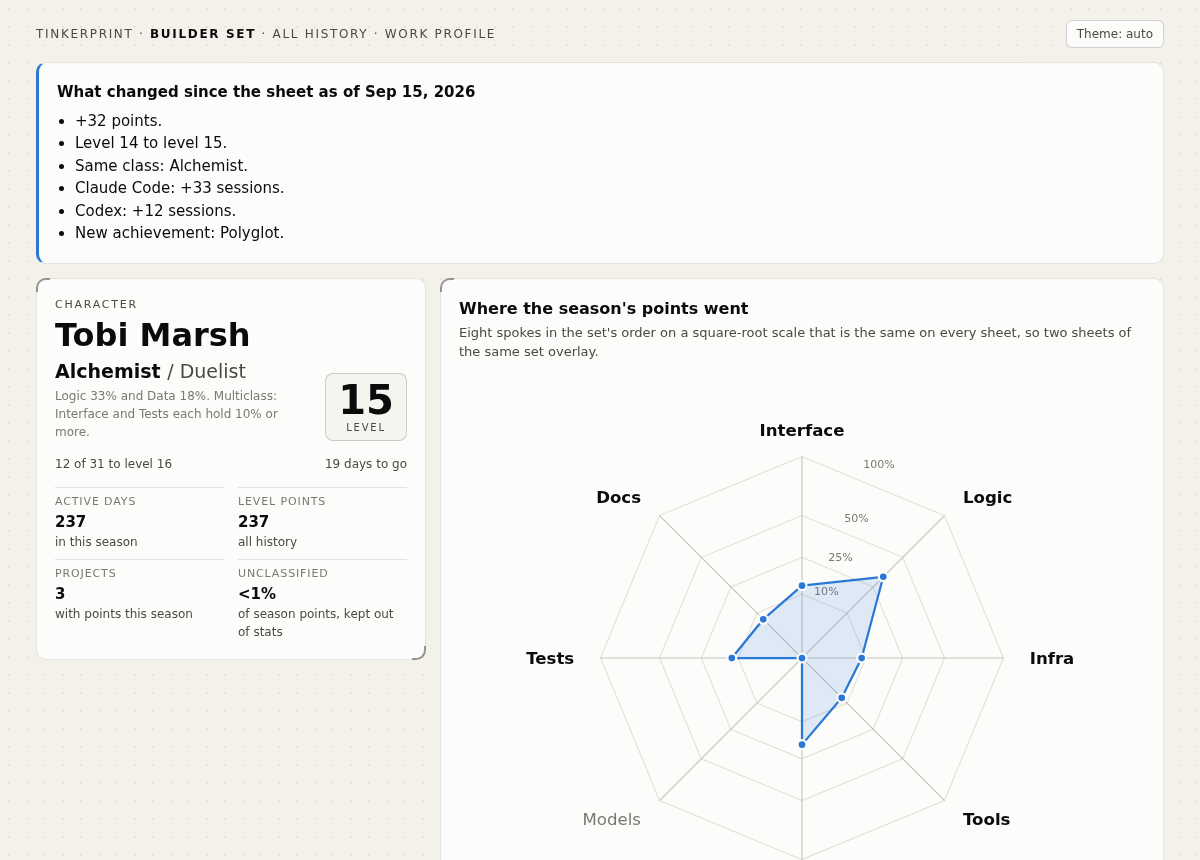
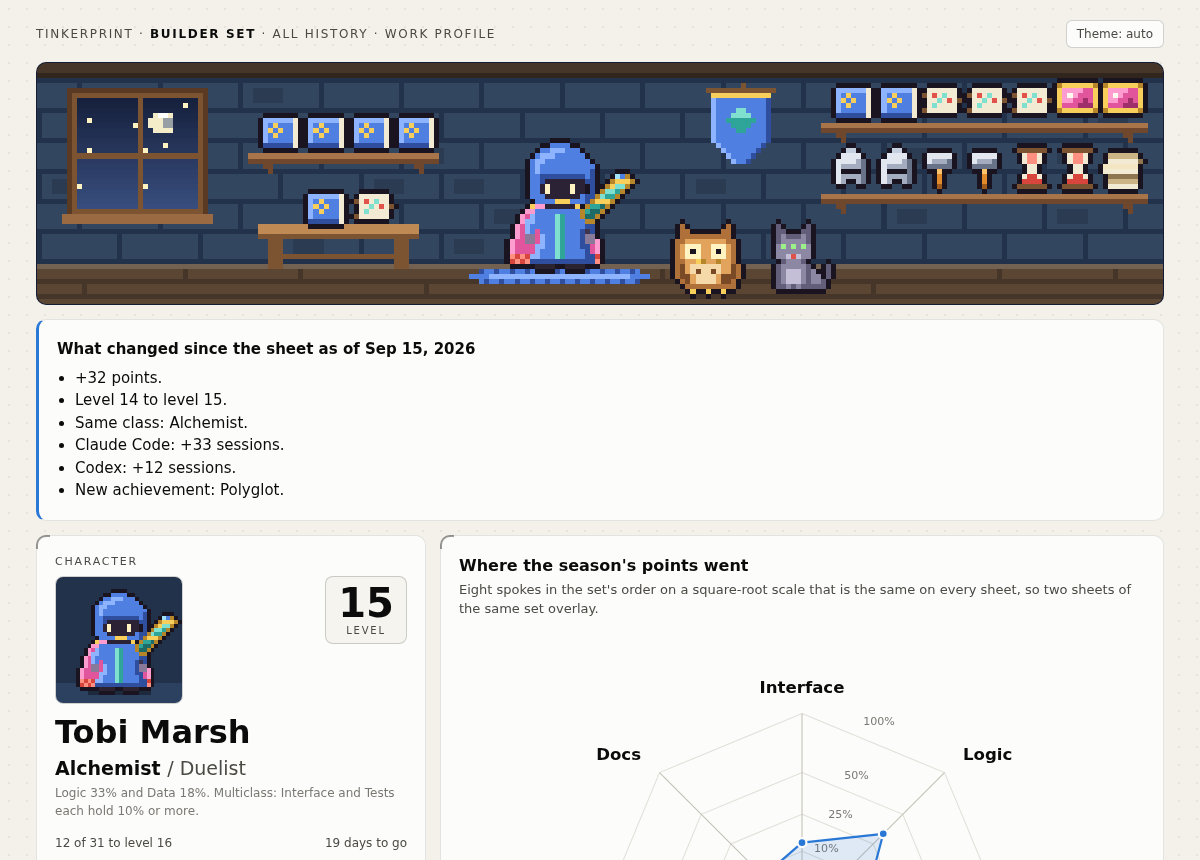
Document the art: docs/ART.md, chronicle in METHOD, gallery in README, changelog
README images now show the banner, portrait and card art.

Claude-Session: https://claude.ai/code/session_01VEmKQtCYERGHMJsPNdzkYW

diff --git a/docs/ART.md b/docs/ART.md
@@ -1,0 +1,125 @@
+# Art
+
+Every picture tinkerprint draws is pixel art made in code from a pack of parts. The same sheet always gives the same pixels. Nothing is fetched, and nothing is random except a stream seeded from sheet fields.
+
+Run `tinkerprint gallery --out art` to see every part at once.
+
+## What it draws
+
+| Picture | Where | Made from |
+|---|---|---|
+| Portrait | sheet hero, card, `portrait.png` | the class |
+| Close-call costume | sheet hero | the class within 2 points |
+| Banner | top of the sheet | the stat mix, the class, the party |
+| Familiar | party cards, banner | the harness |
+| Icon | achievements, milestones | the achievement rule |
+| Trinket | stat cards, banner shelves | the stat |
+| Chronicle | sheet | one portrait per quarter, a campfire for a quiet stretch |
+
+## How a portrait composes
+
+A portrait is a 32 by 32 grid. Layers go down in this order, then every clear pixel next to a drawn one becomes outline:
+
+1. **Cape**, only for a multiclass: the cloth takes the multiclass's first stat, the hem its second.
+2. **Pack**, only for a generalist: a bedroll in the top stat's colors.
+3. **Base**: the shadowed face, eyes, body, legs and boots.
+4. **Body**: robe, armor, apron, smock, coat or tunic, by the top stat.
+5. **Hat**, by the top stat.
+6. **Held item**, by the runner-up. A specialist holds the next stat down, or its own stat's item when it has nothing else.
+7. **Hand** over the grip, unless the item covers it (shield, tome).
+
+A pair wears its top stat and holds its runner-up, so a Spellblade heavy on Logic looks different from one heavy on Interface. The generalist wears a traveler's hat and tunic and carries a walking staff.
+
+Looks follow class shape only. Level, points, streaks and days never change a picture, so a portrait is never a status marker.
+
+The sheet and the card rank stats the same way: by share rounded to 5%, ties in the set's order. So the card's portrait always matches the sheet's.
+
+### Grid keys
+
+`.` is clear. Upper-case keys are ramps filled in per drawing:
+
+| Keys | Ramp |
+|---|---|
+| `A B C` | outfit: the top stat, light to dark |
+| `X Y Z` | item: the runner-up |
+| `T U` | cape: the multiclass's first stat |
+| `V W` | hem: the multiclass's second stat |
+
+Every other key is a fixed color from the pack's `ink`. A part may add its own `palette` for keys only it uses, like a familiar's fur.
+
+## How many
+
+Per set, a portrait varies by kind, top stat, item stat and cape:
+
+| Kind | Looks |
+|---|---|
+| Specialist | 8 outfits, 8 items, 31 capes (none, or 30 ordered pairs of the other stats) |
+| Pair | 28 pairs, 2 orders, 31 capes |
+| Generalist | 8 pack colors |
+| Unclassed | 1 |
+
+That is about 3,500 portraits per set and 7,000 across both, from 14 hats, 6 bodies, 14 held items and one cape. Add 4 familiars, 11 icons, 13 trinkets and a campfire. The banner arranges trinkets by share and seed, so banners rarely repeat.
+
+## Size budget
+
+Pictures are inline SVG: one `<path>` per color, built from runs merged into rectangles, with `shape-rendering: crispEdges`.
+
+| Output | Before art | With art | Budget (tested) |
+|---|---|---|---|
+| `sheet.html`, demo | 23 to 24 KB | 84 to 93 KB | under 160 KB |
+| `card.svg` | 6 KB | 9 to 10 KB | under 24 KB |
+| `portrait.png`, 256 px | none | under 2 KB | under 4 KB |
+| `gallery.html` | none | about 400 KB | under 640 KB |
+
+The banner is the largest piece, about 25 KB. A portrait is 3 to 4 KB. Chronicle chapters that share a look draw it once and reuse it.
+
+PNGs come from a small writer on `zlib` and `struct`: RGBA, filter 0, fixed compression. `build` writes `portrait.png` only when the card is on, from the card's fields alone. `gallery --png` writes every picture.
+
+## The card stays allowlisted
+
+The card's portrait reads only `set`, `class`, `multiclass` and the rounded `stats`. It draws `<path>` elements with `fill` and `d` and nothing else, so `audit` lists no new strings. The test suite checks that the card's portrait matches the sheet's and ignores every other field.
+
+## Replace the art
+
+A pack is one JSON file. Start from the built-in one:
+
+```
+tinkerprint gallery --export-pack mypack.json
+```
+
+Edit grids and colors, then look at the result and build with it:
+
+```
+tinkerprint gallery --art-pack mypack.json --out preview
+tinkerprint build --profile me.toml --art-pack mypack.json
+```
+
+What a pack holds:
+
+- `ink`: fixed colors, one character each.
+- `stat_colors`: light, mid and dark for each of the 13 stats.
+- `sets`: plate, floor, wall and board colors for each set.
+- `looks`: the hat, body, item and trinket each stat uses.
+- `generalist`, `familiars`, `icons`: which part draws each.
+- `parts`: grids. Each has `at` (its corner on the canvas), `rows`, and optional `palette` and `cover`.
+
+The loader refuses a pack with a color that is not `#rrggbb`, a key no palette defines, rows of uneven width, or a missing part. A pack can change pixels and nothing else. It never adds text to a sheet or card.
+
+## The alternative: a pre-made art pack
+
+A hand-drawn or AI-made set of images could ship in place of the generator.
+
+What it would improve:
+
+- Faces, hands and fabric at a detail 32 pixels cannot hold.
+- A distinct silhouette per class, where today pairs share an outfit and differ by item and accent.
+- Poses, a banner with depth and lighting, familiars with personality.
+
+What it would cost:
+
+- **Combinations.** 7,000 portraits cannot each be drawn. A pack would cover 37 classes per set and drop the item and cape variation, or ship layered parts that still need composing.
+- **Size.** Even small PNGs add up to megabytes in the package, against kilobytes of grids today. A sheet that embeds them grows too.
+- **License and provenance.** Every image needs a clear license for an MIT repo. AI output needs a model whose terms allow it, and a record of how it was made.
+- **Consistency.** Hand art for 74 classes drifts in style unless one person draws all of it.
+
+The middle path fits the pack format as it is: draw or generate the parts at 32 pixels, quantize them to a palette, and write them as grids. The composer, the tests and the allowlist stay the same.

diff --git a/METHOD.md b/METHOD.md
@@ -133,12 +133,21 @@ Generic rules over events and git, the same for everyone. Each states its rule a
 
 A profile may add a milestones file (one dated line per milestone) for releases, launches or anything else the person keeps. Milestones show as the person wrote them and need no rule.
 
+## Chronicle
+
+One chapter per calendar quarter, from the first active day to the last, over all history up to the as-of date. A chapter shows its active days and the class its own points would give under the rules above, with a close runner-up named the same way. A chapter with only unclassified points has no class. Runs of quarters with no active day collapse into one rest. The chronicle reads the per-day points that scoring already made and adds no rule about points.
+
+## Art
+
+Pictures follow class shape only: the class, its stats ranked by share rounded to 5%, the multiclass and the party's harnesses. Level, points and streaks never change a picture. The rules for composing them are in [docs/ART.md](docs/ART.md).
+
 ## Outputs
 
 - `sheet.json`: versioned, everything the pages draw. It depends on the events and the profile alone.
 - `changes.json`: what changed since an earlier sheet (see below). Kept apart so `sheet.json` never depends on history.
 - `sheet.html`: the private sheet. One file, no network: fonts inlined, a content policy that blocks every request.
-- `card.svg`: the share card, built from an allowlist only: name, set, class, level, stat shares rounded to 5%, achievement titles with month dates, and the party's harness names. Hours, weekdays, exact dates, streak ranges, project names and token totals stay off unless the profile turns them on. A profile marked `work = true` never goes on a card unless it says so. The card's chart follows its rounded shares: fewer than three nonzero rounded shares draw ranked bars, so no stat under 5% shows through.
+- `card.svg`: the share card, built from an allowlist only: name, set, class, level, stat shares rounded to 5%, achievement titles with month dates, and the party's harness names. Its portrait comes from the set, class, multiclass and rounded shares, and draws no text. Hours, weekdays, exact dates, streak ranges, project names and token totals stay off unless the profile turns them on. A profile marked `work = true` never goes on a card unless it says so. The card's chart follows its rounded shares: fewer than three nonzero rounded shares draw ranked bars, so no stat under 5% shows through.
+- `portrait.png`: the card's portrait as a PNG, written only when the card is on, from the card's fields alone.
 - `audit`: prints every text string in the `card.svg` on disk, in document order. It reads nothing else.
 - **What changed**: each successful build saves its sheet to a history kept per profile file and season, named by its as-of date (the `--as-of` date, or the build day). A build compares against the newest saved sheet with an earlier as-of date and names that date. The comparison covers points since then, level-ups, a new class, share drift, party changes and new achievements. A build with an earlier as-of date never compares against a later sheet.
 

diff --git a/README.md b/README.md
@@ -2,19 +2,19 @@
 
 Turn your git history and your coding-agent logs into an RPG stat sheet.
 
-Stats on a radar, a class from your two strongest stats, a level, a few dated achievements, and a party: the agents that worked beside you. It runs on your machine and reads only what is already there. Nothing is uploaded.
+Stats on a radar, a class from your two strongest stats with a pixel portrait to match, a level, a few dated achievements, a chronicle of your classes by quarter, and a party: the agents that worked beside you. It runs on your machine and reads only what is already there. Nothing is uploaded.
 
 ## What it makes
 
 A private sheet, one HTML file per profile. Here are the demo's two invented people, a developer on the builder set and a tinkerer on the tinkerer set:
 
-![Sheet for Tobi Marsh, an invented developer: class, level and a radar of the builder set](docs/tobi.png)
+![Sheet for Tobi Marsh, an invented developer: workshop banner, pixel portrait, class, level and a radar of the builder set](docs/tobi.png)
 
 ![Sheet for Wren Aldous, an invented tinkerer, in the dark theme](docs/wren.png)
 
 And a share card that carries only what you allow:
 
-![Share card for Tobi Marsh: class, level, rounded shares, achievements and party](docs/card.png)
+![Share card for Tobi Marsh: pixel portrait, class, level, rounded shares, achievements and party](docs/card.png)
 
 ## Try it
 
@@ -35,7 +35,9 @@ tinkerprint build --profile me.toml   # sheet.html, card.svg, sheet.json
 tinkerprint audit --profile me.toml   # every text string in the built card.svg
 ```
 
-`build` takes `--season FROM:TO` to set the season and `--as-of DATE` to ignore anything later. Without `--out`, sheets go to a folder under `~/.local/share/tinkerprint/sheets/` named for the profile file. Each build writes `sheet.json`, `changes.json`, `sheet.html` and `card.svg`. `python -m tinkerprint` works too. See `examples/profile.example.toml` for every profile option.
+`tinkerprint gallery --out art` writes one page with every class portrait of both sets, every familiar, icon and a few banners. The art is pixel art made in code from a pack of parts, and `--art-pack` swaps the pack. See [docs/ART.md](docs/ART.md).
+
+`build` takes `--season FROM:TO` to set the season and `--as-of DATE` to ignore anything later. Without `--out`, sheets go to a folder under `~/.local/share/tinkerprint/sheets/` named for the profile file. Each build writes `sheet.json`, `changes.json`, `sheet.html` and `card.svg`, plus `portrait.png` when the card is on. `python -m tinkerprint` works too. See `examples/profile.example.toml` for every profile option.
 
 ## What it reads
 

diff --git a/CHANGELOG.md b/CHANGELOG.md
@@ -2,6 +2,15 @@
 
 Newest first. Every release gets a version, an entry here and a GitHub release.
 
+## Unreleased
+
+- Pixel art, made in code from a pack of parts. A portrait beside your class wears your top stat and holds your runner-up, with a cape for a multiclass. On a close call it changes into the other costume.
+- A workshop banner on top of the sheet. Its shelves hold trinkets for your strongest stats and your party's familiars stand beside you.
+- Familiars for each harness, icons for each achievement, trinkets on the stat cards.
+- A chronicle on the sheet: one chapter per quarter with that quarter's class. Quiet stretches rest at camp. `sheet.json` gains a `chronicle` list.
+- The share card shows the portrait, drawn from its allowlisted fields only. `build` writes `portrait.png` when the card is on.
+- `tinkerprint gallery` writes one page with every portrait, familiar and icon. `--art-pack` on `build` and `gallery` draws with your own pack. See docs/ART.md.
+
 ## 0.1.0 (2026-11-21)
 
 First release.
